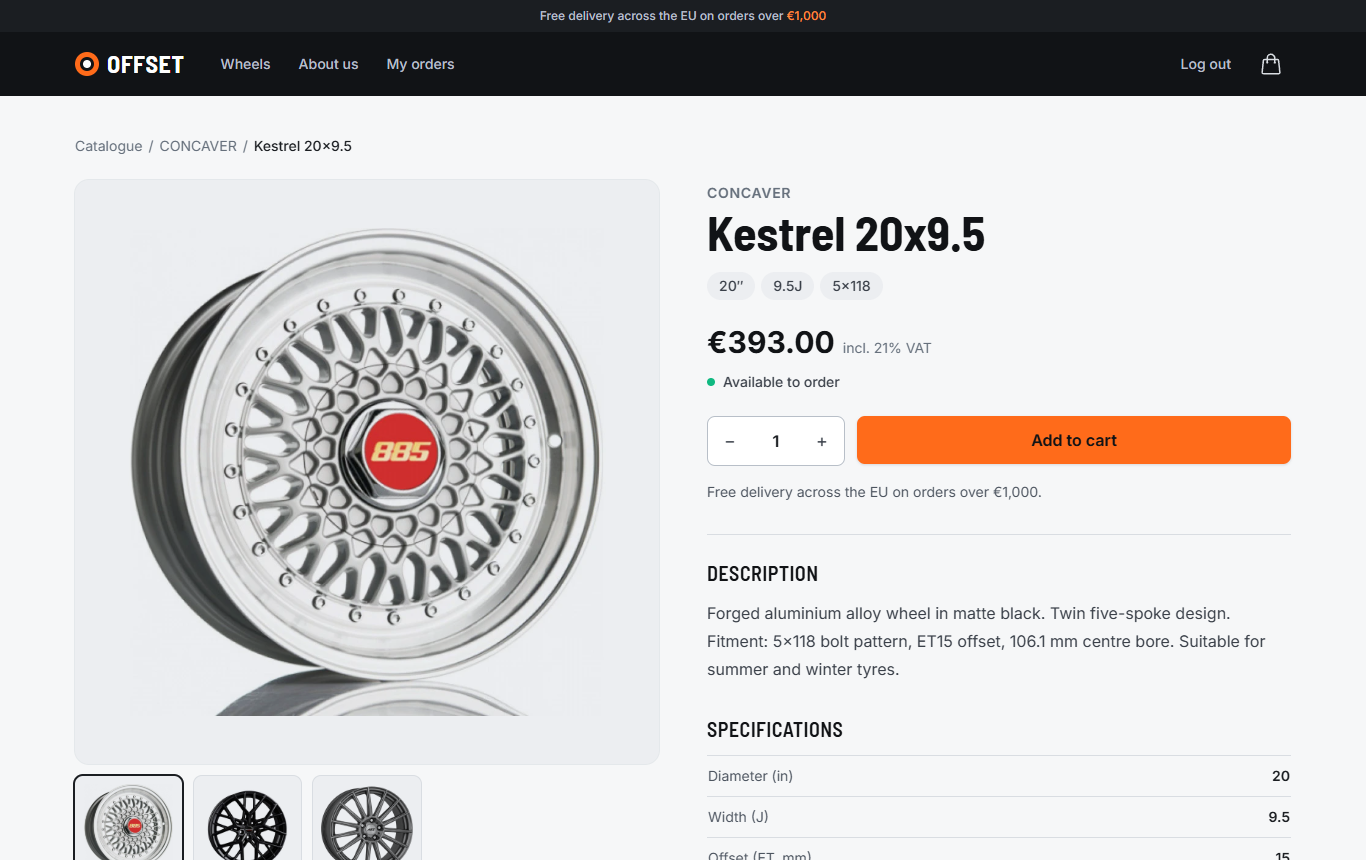
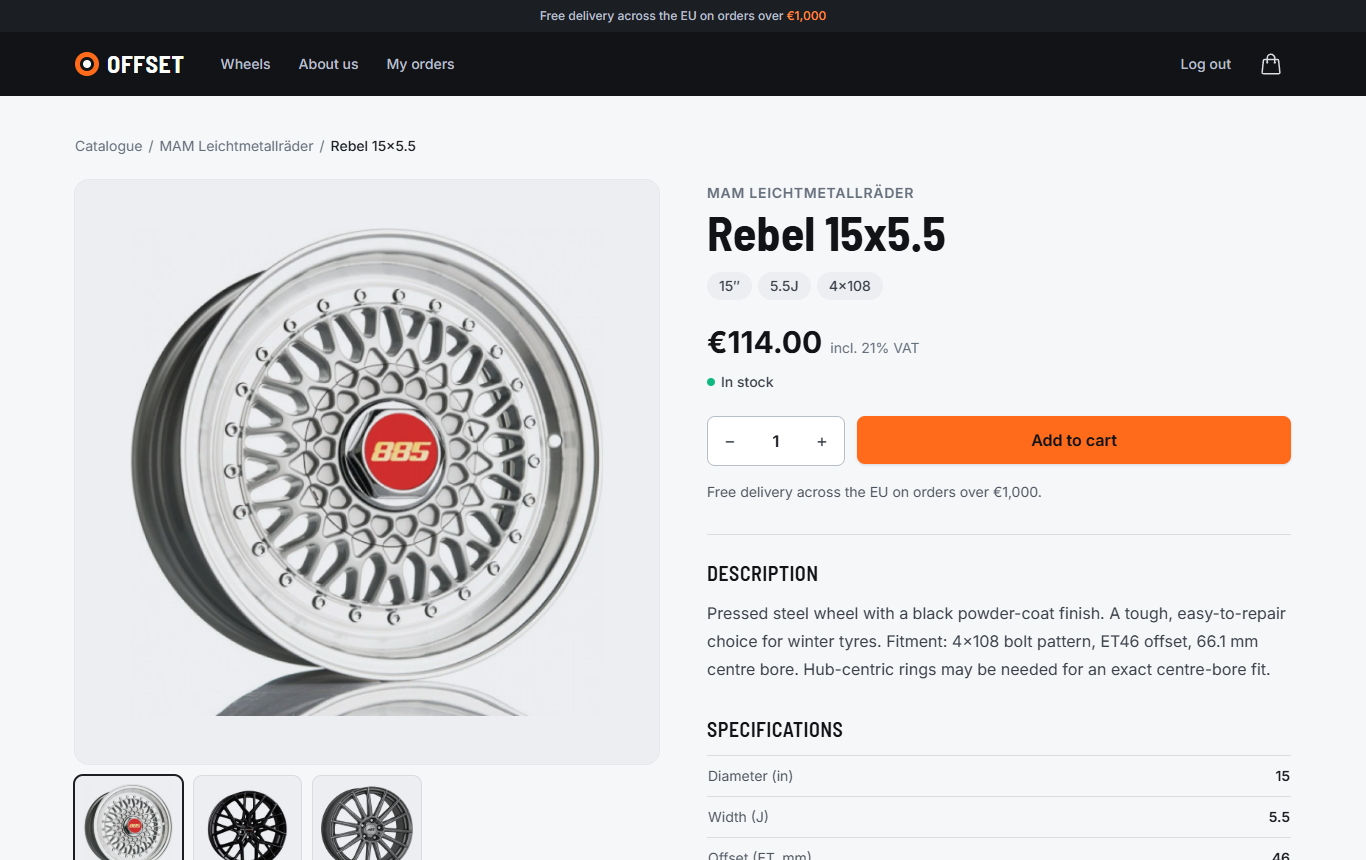
Add cart quantity limits and stock to the README

diff --git a/README.md b/README.md
@@ -13,7 +13,7 @@ the catalogue and a customer's orders.
 
 | Catalogue | Product details |
 | --- | --- |
-| ![Catalogue with filters and product grid](docs/screenshots/catalogue.png) | ![Product page with gallery, specs and add to cart](docs/screenshots/product-page.png) |
+| ![Catalogue with filters and product grid](docs/screenshots/catalogue.png) | ![Product page with gallery, stock status, specs and add to cart](docs/screenshots/product-page.png) |
 | **Checkout** | **Order details** |
 | ![Checkout with delivery details and totals](docs/screenshots/checkout.png) | ![Order details with lines, VAT and status](docs/screenshots/order-details.png) |
 | **Admin dashboard** | **Admin orders** |
@@ -60,7 +60,12 @@ In 2026 I upgraded and refactored the project on my own:
   quantity, four similar wheels (same diameter and bolt pattern), and title,
   meta description and Open Graph tags; slugs are made from the title and
   stay fixed when it is edited
-- **Cart**: session based; add, change quantity, remove
+- **Cart**: session based; add, change quantity, remove; quantities are whole
+  numbers from 1 to 99 per line, and setting 0 removes the item
+- **Stock**: each product has a stock count, edited in the admin panel;
+  product cards and pages show "In stock", "Only N left" or "Out of stock",
+  the catalogue can filter to in-stock wheels, the cart won't hold more than
+  is left, and checkout re-checks stock under a lock before taking it off
 - **Checkout**: delivery details form, pay on delivery or a simulated card
   payment, order + payment records; each order line keeps the unit
   price paid, so later price changes don't alter past orders; a declined card
